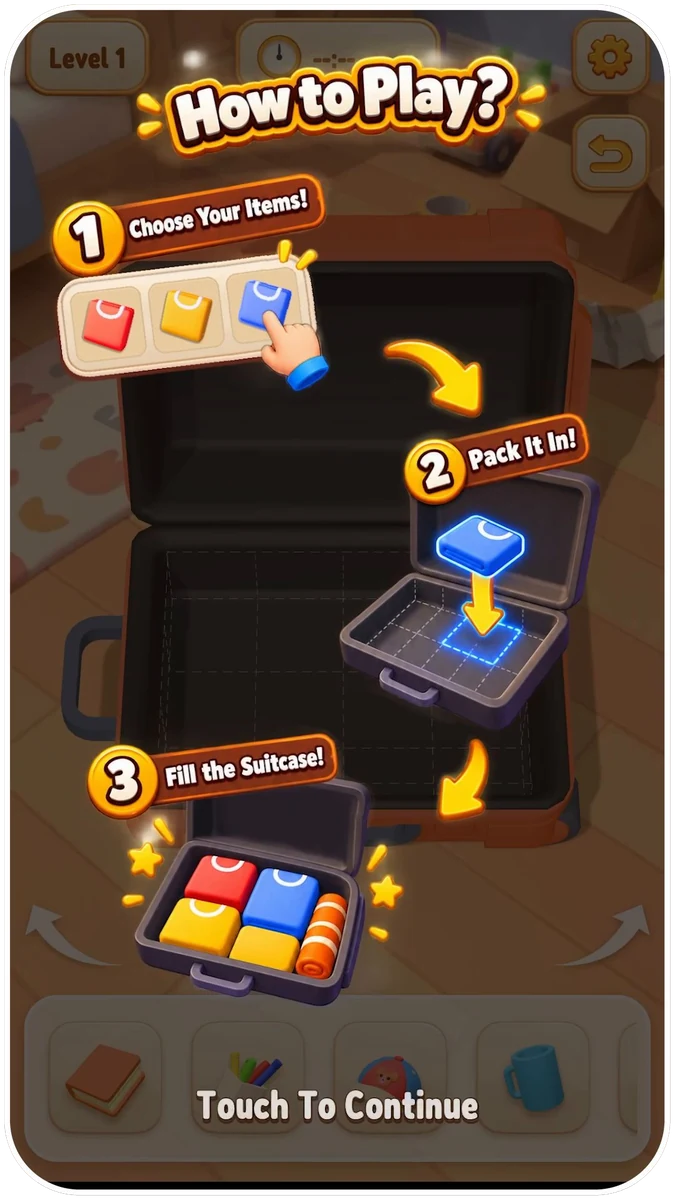
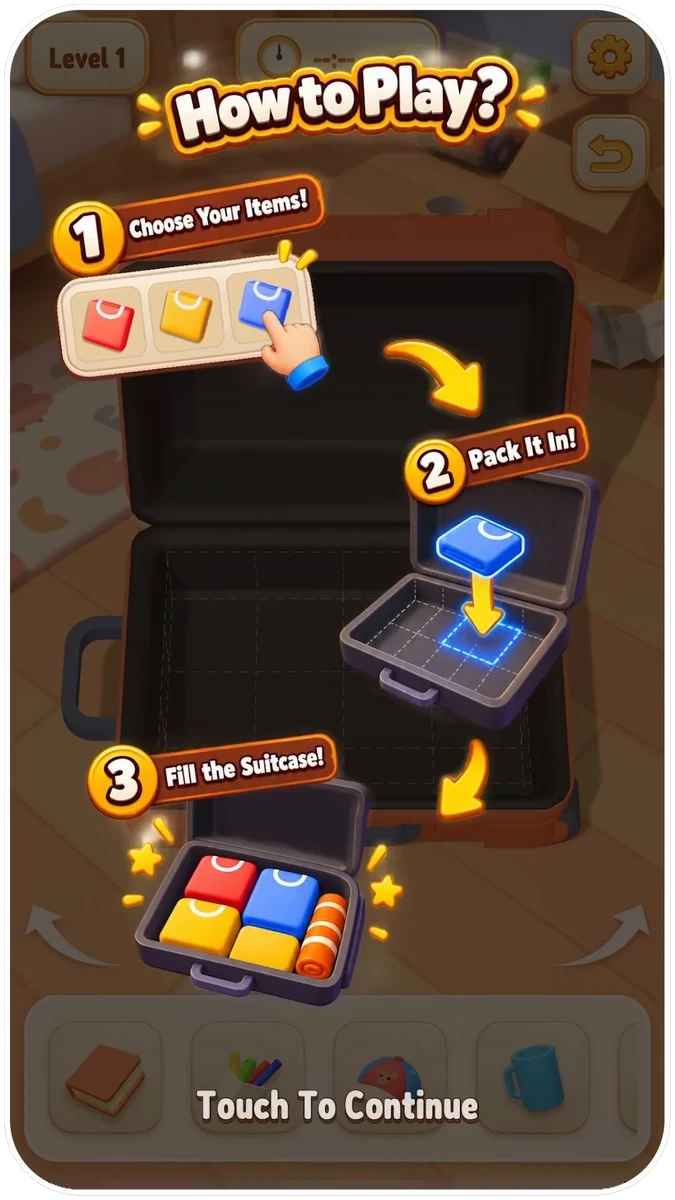
Move It All: remove the black strip at the bottom of the game screenshots

Changed region(s): [[0.0933, 0.9867, 0.9022, 1.0]]

diff --git a/projects/blast-defence/index.html b/projects/blast-defence/index.html
@@ -13,8 +13,8 @@
   <link rel="preconnect" href="https://fonts.gstatic.com" crossorigin>
   <link href="https://fonts.googleapis.com/css2?family=Bricolage+Grotesque:opsz,wght@12..96,500;12..96,700&family=Instrument+Sans:wght@400;500;600&display=swap" rel="stylesheet">
   <script>document.documentElement.classList.add("js");</script>
-  <link rel="stylesheet" href="../../style.css?v=82">
-  <link rel="stylesheet" href="../../project.css?v=82">
+  <link rel="stylesheet" href="../../style.css?v=83">
+  <link rel="stylesheet" href="../../project.css?v=83">
 </head>
 <body class="project-page">
   <a class="skip" href="#overview" id="skip-link">Skip to content</a>
@@ -40,8 +40,8 @@
     <button type="button" class="lb-nav lb-next" id="lb-next" aria-label="Next"></button>
   </dialog>
 
-  <script src="../../content.js?v=82"></script>
-  <script src="../../project.js?v=82"></script>
-  <script src="../../analytics.js?v=82"></script>
+  <script src="../../content.js?v=83"></script>
+  <script src="../../project.js?v=83"></script>
+  <script src="../../analytics.js?v=83"></script>
 </body>
 </html>

diff --git a/projects/ember-born/index.html b/projects/ember-born/index.html
@@ -13,8 +13,8 @@
   <link rel="preconnect" href="https://fonts.gstatic.com" crossorigin>
   <link href="https://fonts.googleapis.com/css2?family=Bricolage+Grotesque:opsz,wght@12..96,500;12..96,700&family=Instrument+Sans:wght@400;500;600&display=swap" rel="stylesheet">
   <script>document.documentElement.classList.add("js");</script>
-  <link rel="stylesheet" href="../../style.css?v=82">
-  <link rel="stylesheet" href="../../project.css?v=82">
+  <link rel="stylesheet" href="../../style.css?v=83">
+  <link rel="stylesheet" href="../../project.css?v=83">
 </head>
 <body class="project-page">
   <a class="skip" href="#overview" id="skip-link">Skip to content</a>
@@ -40,8 +40,8 @@
     <button type="button" class="lb-nav lb-next" id="lb-next" aria-label="Next"></button>
   </dialog>
 
-  <script src="../../content.js?v=82"></script>
-  <script src="../../project.js?v=82"></script>
-  <script src="../../analytics.js?v=82"></script>
+  <script src="../../content.js?v=83"></script>
+  <script src="../../project.js?v=83"></script>
+  <script src="../../analytics.js?v=83"></script>
 </body>
 </html>

diff --git a/projects/lift-rush/index.html b/projects/lift-rush/index.html
@@ -13,8 +13,8 @@
   <link rel="preconnect" href="https://fonts.gstatic.com" crossorigin>
   <link href="https://fonts.googleapis.com/css2?family=Bricolage+Grotesque:opsz,wght@12..96,500;12..96,700&family=Instrument+Sans:wght@400;500;600&display=swap" rel="stylesheet">
   <script>document.documentElement.classList.add("js");</script>
-  <link rel="stylesheet" href="../../style.css?v=82">
-  <link rel="stylesheet" href="../../project.css?v=82">
+  <link rel="stylesheet" href="../../style.css?v=83">
+  <link rel="stylesheet" href="../../project.css?v=83">
 </head>
 <body class="project-page">
   <a class="skip" href="#overview" id="skip-link">Skip to content</a>
@@ -40,8 +40,8 @@
     <button type="button" class="lb-nav lb-next" id="lb-next" aria-label="Next"></button>
   </dialog>
 
-  <script src="../../content.js?v=82"></script>
-  <script src="../../project.js?v=82"></script>
-  <script src="../../analytics.js?v=82"></script>
+  <script src="../../content.js?v=83"></script>
+  <script src="../../project.js?v=83"></script>
+  <script src="../../analytics.js?v=83"></script>
 </body>
 </html>

diff --git a/projects/move-it-all/index.html b/projects/move-it-all/index.html
@@ -13,8 +13,8 @@
   <link rel="preconnect" href="https://fonts.gstatic.com" crossorigin>
   <link href="https://fonts.googleapis.com/css2?family=Bricolage+Grotesque:opsz,wght@12..96,500;12..96,700&family=Instrument+Sans:wght@400;500;600&display=swap" rel="stylesheet">
   <script>document.documentElement.classList.add("js");</script>
-  <link rel="stylesheet" href="../../style.css?v=82">
-  <link rel="stylesheet" href="../../project.css?v=82">
+  <link rel="stylesheet" href="../../style.css?v=83">
+  <link rel="stylesheet" href="../../project.css?v=83">
 </head>
 <body class="project-page">
   <a class="skip" href="#overview" id="skip-link">Skip to content</a>
@@ -40,8 +40,8 @@
     <button type="button" class="lb-nav lb-next" id="lb-next" aria-label="Next"></button>
   </dialog>
 
-  <script src="../../content.js?v=82"></script>
-  <script src="../../project.js?v=82"></script>
-  <script src="../../analytics.js?v=82"></script>
+  <script src="../../content.js?v=83"></script>
+  <script src="../../project.js?v=83"></script>
+  <script src="../../analytics.js?v=83"></script>
 </body>
 </html>

diff --git a/projects/royal-words/index.html b/projects/royal-words/index.html
@@ -13,8 +13,8 @@
   <link rel="preconnect" href="https://fonts.gstatic.com" crossorigin>
   <link href="https://fonts.googleapis.com/css2?family=Bricolage+Grotesque:opsz,wght@12..96,500;12..96,700&family=Instrument+Sans:wght@400;500;600&display=swap" rel="stylesheet">
   <script>document.documentElement.classList.add("js");</script>
-  <link rel="stylesheet" href="../../style.css?v=82">
-  <link rel="stylesheet" href="../../project.css?v=82">
+  <link rel="stylesheet" href="../../style.css?v=83">
+  <link rel="stylesheet" href="../../project.css?v=83">
 </head>
 <body class="project-page">
   <a class="skip" href="#overview" id="skip-link">Skip to content</a>
@@ -40,8 +40,8 @@
     <button type="button" class="lb-nav lb-next" id="lb-next" aria-label="Next"></button>
   </dialog>
 
-  <script src="../../content.js?v=82"></script>
-  <script src="../../project.js?v=82"></script>
-  <script src="../../analytics.js?v=82"></script>
+  <script src="../../content.js?v=83"></script>
+  <script src="../../project.js?v=83"></script>
+  <script src="../../analytics.js?v=83"></script>
 </body>
 </html>

diff --git a/projects/subway-flow/index.html b/projects/subway-flow/index.html
@@ -13,8 +13,8 @@
   <link rel="preconnect" href="https://fonts.gstatic.com" crossorigin>
   <link href="https://fonts.googleapis.com/css2?family=Bricolage+Grotesque:opsz,wght@12..96,500;12..96,700&family=Instrument+Sans:wght@400;500;600&display=swap" rel="stylesheet">
   <script>document.documentElement.classList.add("js");</script>
-  <link rel="stylesheet" href="../../style.css?v=82">
-  <link rel="stylesheet" href="../../project.css?v=82">
+  <link rel="stylesheet" href="../../style.css?v=83">
+  <link rel="stylesheet" href="../../project.css?v=83">
 </head>
 <body class="project-page">
   <a class="skip" href="#overview" id="skip-link">Skip to content</a>
@@ -40,8 +40,8 @@
     <button type="button" class="lb-nav lb-next" id="lb-next" aria-label="Next"></button>
   </dialog>
 
-  <script src="../../content.js?v=82"></script>
-  <script src="../../project.js?v=82"></script>
-  <script src="../../analytics.js?v=82"></script>
+  <script src="../../content.js?v=83"></script>
+  <script src="../../project.js?v=83"></script>
+  <script src="../../analytics.js?v=83"></script>
 </body>
 </html>

diff --git a/index.html b/index.html
@@ -13,7 +13,7 @@
   <link rel="preconnect" href="https://fonts.gstatic.com" crossorigin>
   <link href="https://fonts.googleapis.com/css2?family=Bricolage+Grotesque:opsz,wght@12..96,500;12..96,700&family=Instrument+Sans:wght@400;500;600&display=swap" rel="stylesheet">
   <script>document.documentElement.classList.add("js");</script>
-  <link rel="stylesheet" href="style.css?v=82">
+  <link rel="stylesheet" href="style.css?v=83">
 </head>
 <body>
   <a class="skip" href="#about" id="skip-link">Skip to content</a>
@@ -299,9 +299,9 @@
     </div>
   </footer>
 
-  <script src="content.js?v=82"></script>
-  <script src="script.js?v=82"></script>
-  <script src="analytics.js?v=82"></script>
-  <script type="module" src="cv.js?v=82"></script>
+  <script src="content.js?v=83"></script>
+  <script src="script.js?v=83"></script>
+  <script src="analytics.js?v=83"></script>
+  <script type="module" src="cv.js?v=83"></script>
 </body>
 </html>

diff --git a/content.js b/content.js
@@ -603,9 +603,9 @@ window.SITE = {
           banner: "assets/projects/move-it-all/banner.webp",
           logo: "assets/projects/move-it-all/logo.webp",
           phones: [
-            "assets/projects/move-it-all/phone-1.webp",
-            "assets/projects/move-it-all/phone-2.webp",
-            "assets/projects/move-it-all/phone-3.webp"
+            "assets/projects/move-it-all/phone-1.webp?v=2",
+            "assets/projects/move-it-all/phone-2.webp?v=2",
+            "assets/projects/move-it-all/phone-3.webp?v=2"
           ],
           short: "A puzzle about fitting everyday items into suitcases before time runs out.",
           // Project page
